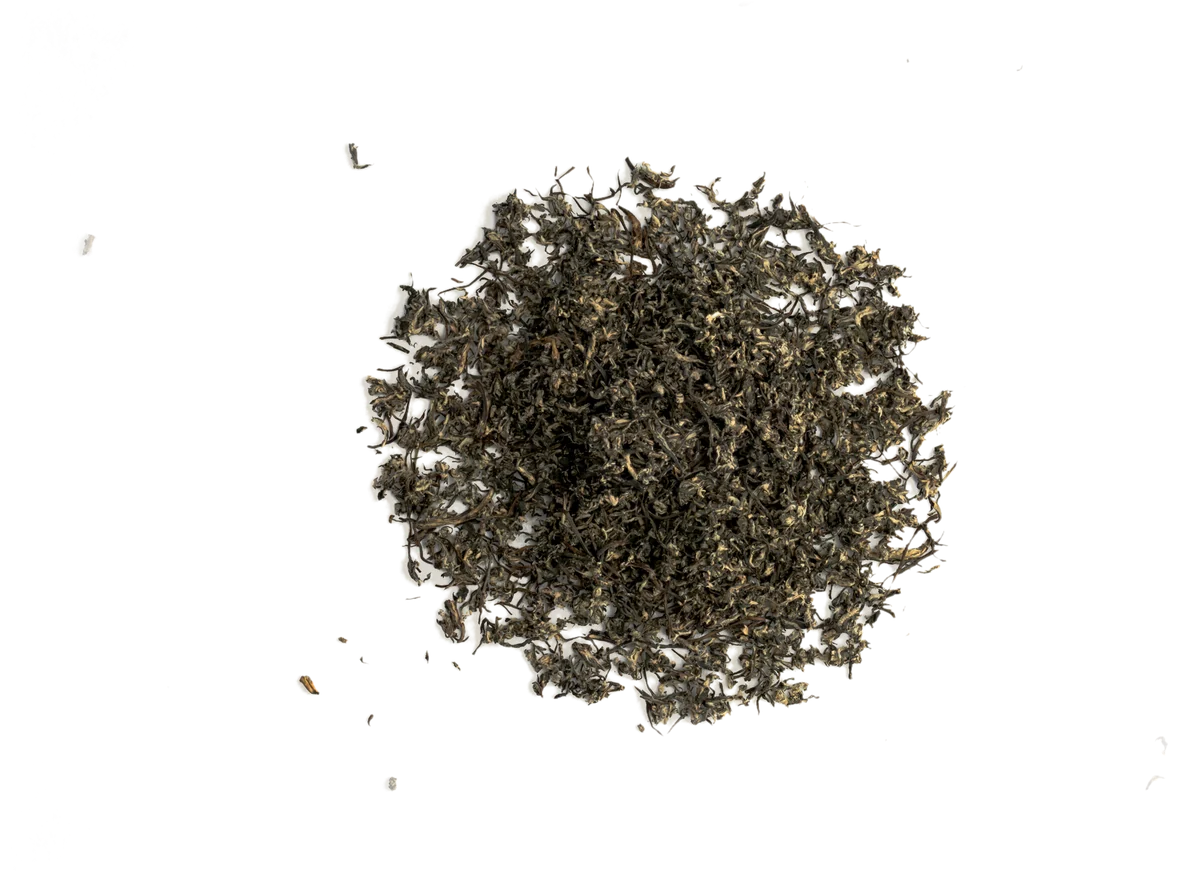
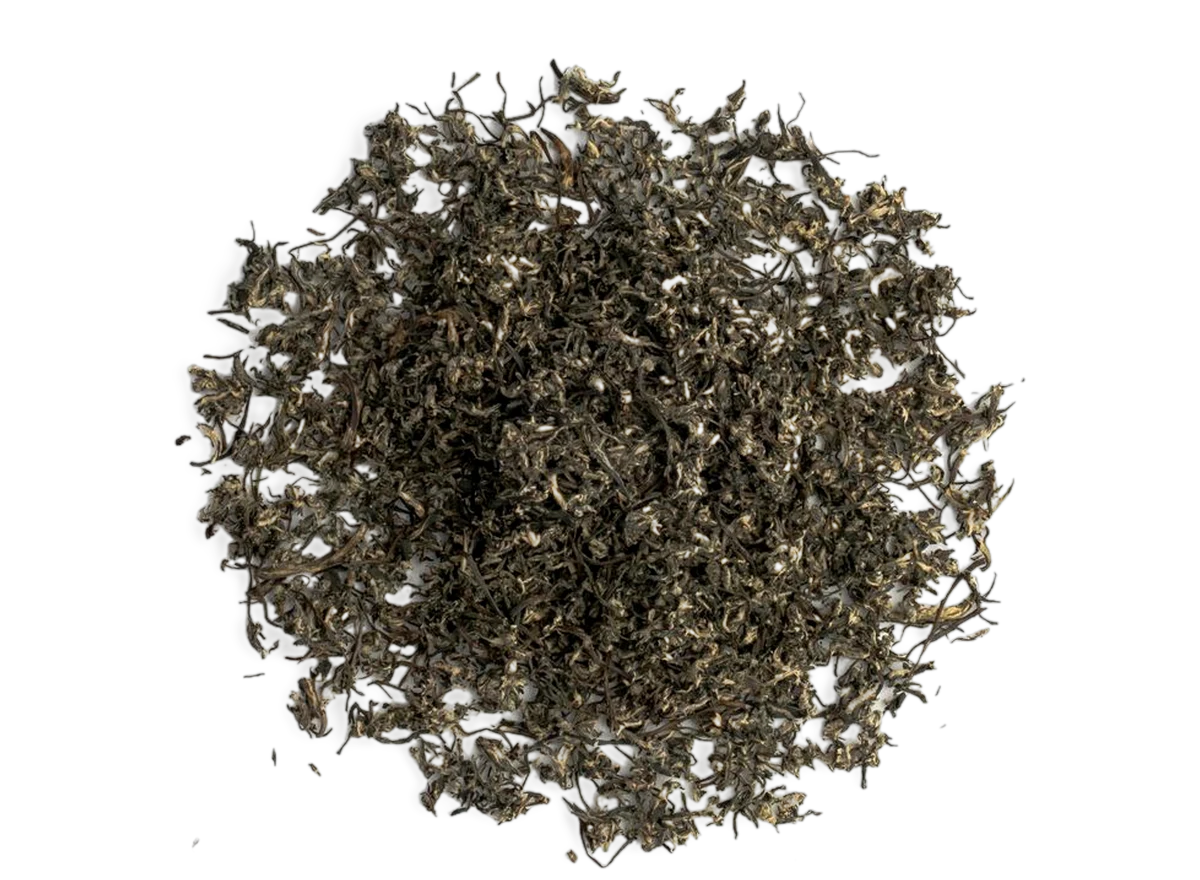
Shelf: bigger images, wider spacing; purge v5 glow from all remaining cutouts
- leafcut-* re-matted from source with tight 2% crop — leaves render ~25%
  larger in the same shelf boxes; grid gap widened, inner padding dropped,
  names nowrap so Persimmon Leaf stays on one line
- pilecut-sejak/artemisia re-matted (last v5 piles), canvas-matched
- single-* collection cutouts: in-place alpha refit — new matte can only
  remove pixels (the glow), so the annotation-tuned geometry is untouched;
  overlap audit re-run clean
- kills the pale 'water glow' remnants (e.g. left of hwangto's quince)

diff --git a/koyo-site/css/style.css b/koyo-site/css/style.css
@@ -960,9 +960,9 @@ main { position: relative; z-index: 1; }
 .shelf-grid {
   display: grid;
   grid-template-columns: repeat(4, minmax(0, 1fr));
-  gap: clamp(1.2rem, 3vw, 3rem);
-  max-width: 80rem;
-  margin: clamp(3rem, 8vh, 5.5rem) auto 0;
+  gap: clamp(2.5rem, 4.5vw, 4.5rem);
+  max-width: 84rem;
+  margin: clamp(3.5rem, 9vh, 6.5rem) auto 0;
 }
 .shelf-card { display: block; text-align: center; }
 .shelf-media {
@@ -976,7 +976,6 @@ main { position: relative; z-index: 1; }
   width: 100%;
   height: 100%;
   object-fit: contain;
-  padding: 5%;
   transition: opacity 0.7s var(--ease-out), transform 1.1s var(--ease-out);
 }
 .shelf-loose { opacity: 0; transform: scale(1.05); }
@@ -985,6 +984,7 @@ main { position: relative; z-index: 1; }
 .shelf-card:hover .shelf-name { color: var(--clay); }
 .shelf-name {
   margin-top: 1.6rem;
+  white-space: nowrap;
   font-family: var(--serif);
   font-weight: 300;
   font-size: clamp(1.25rem, 2vw, 1.6rem);
